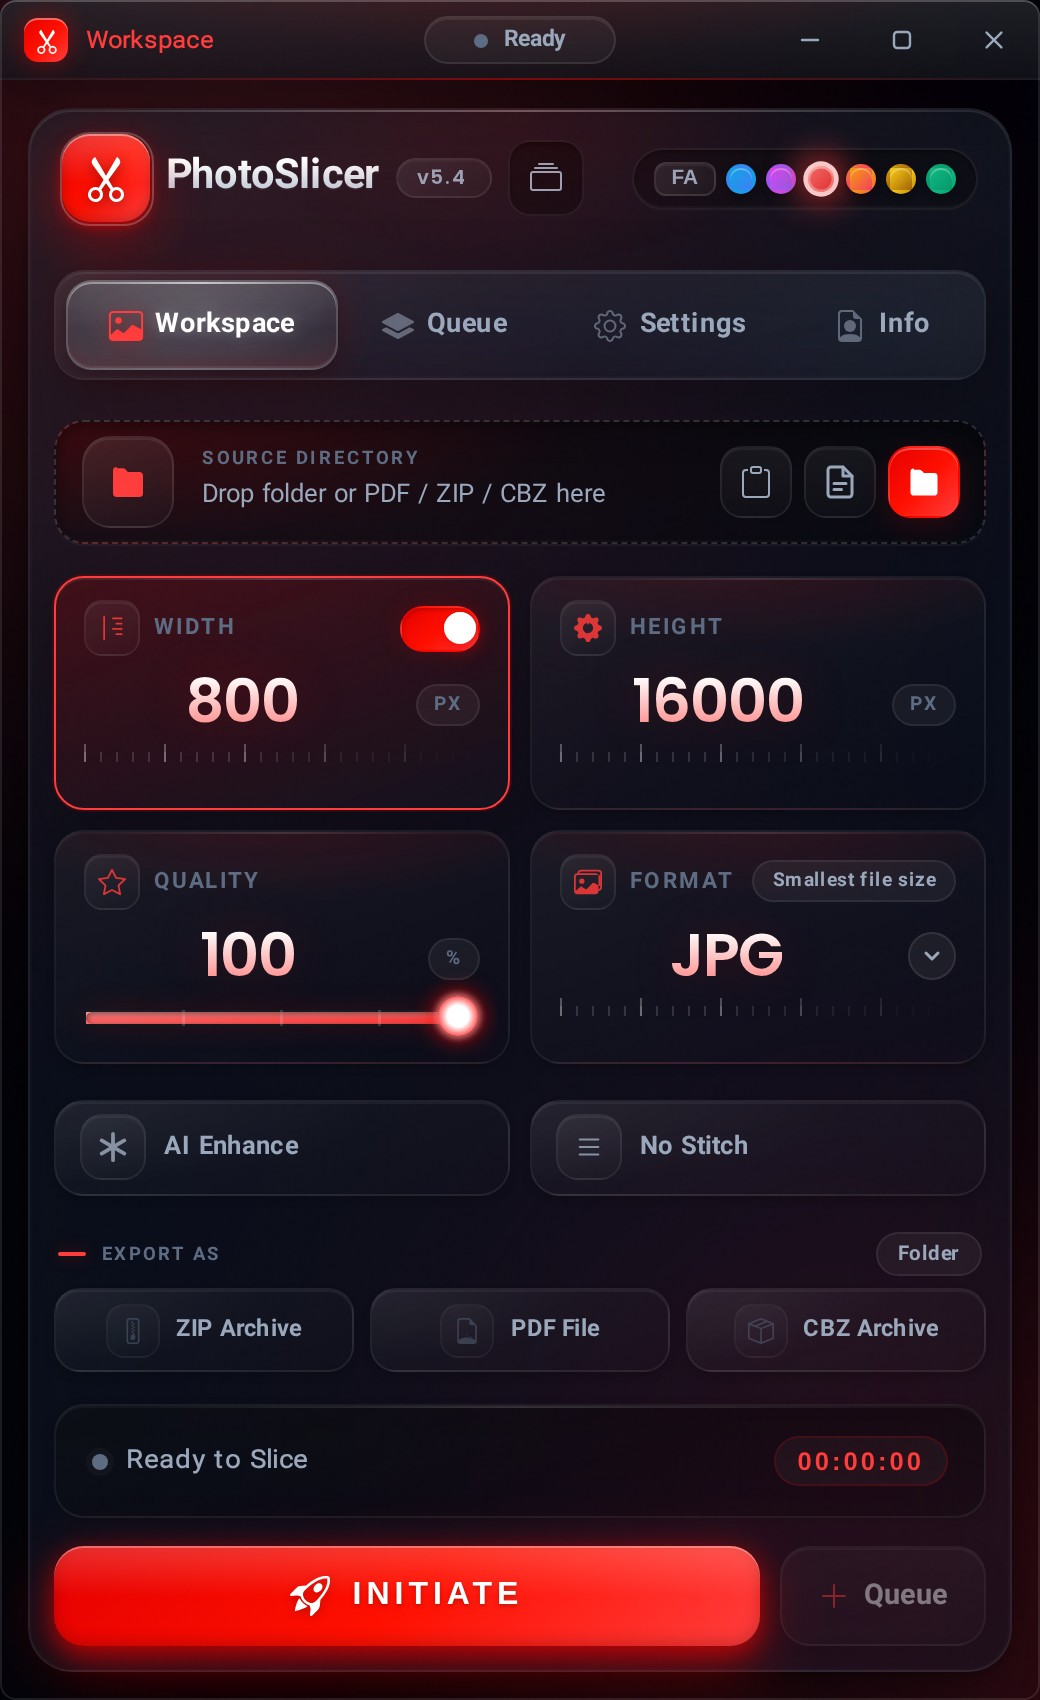
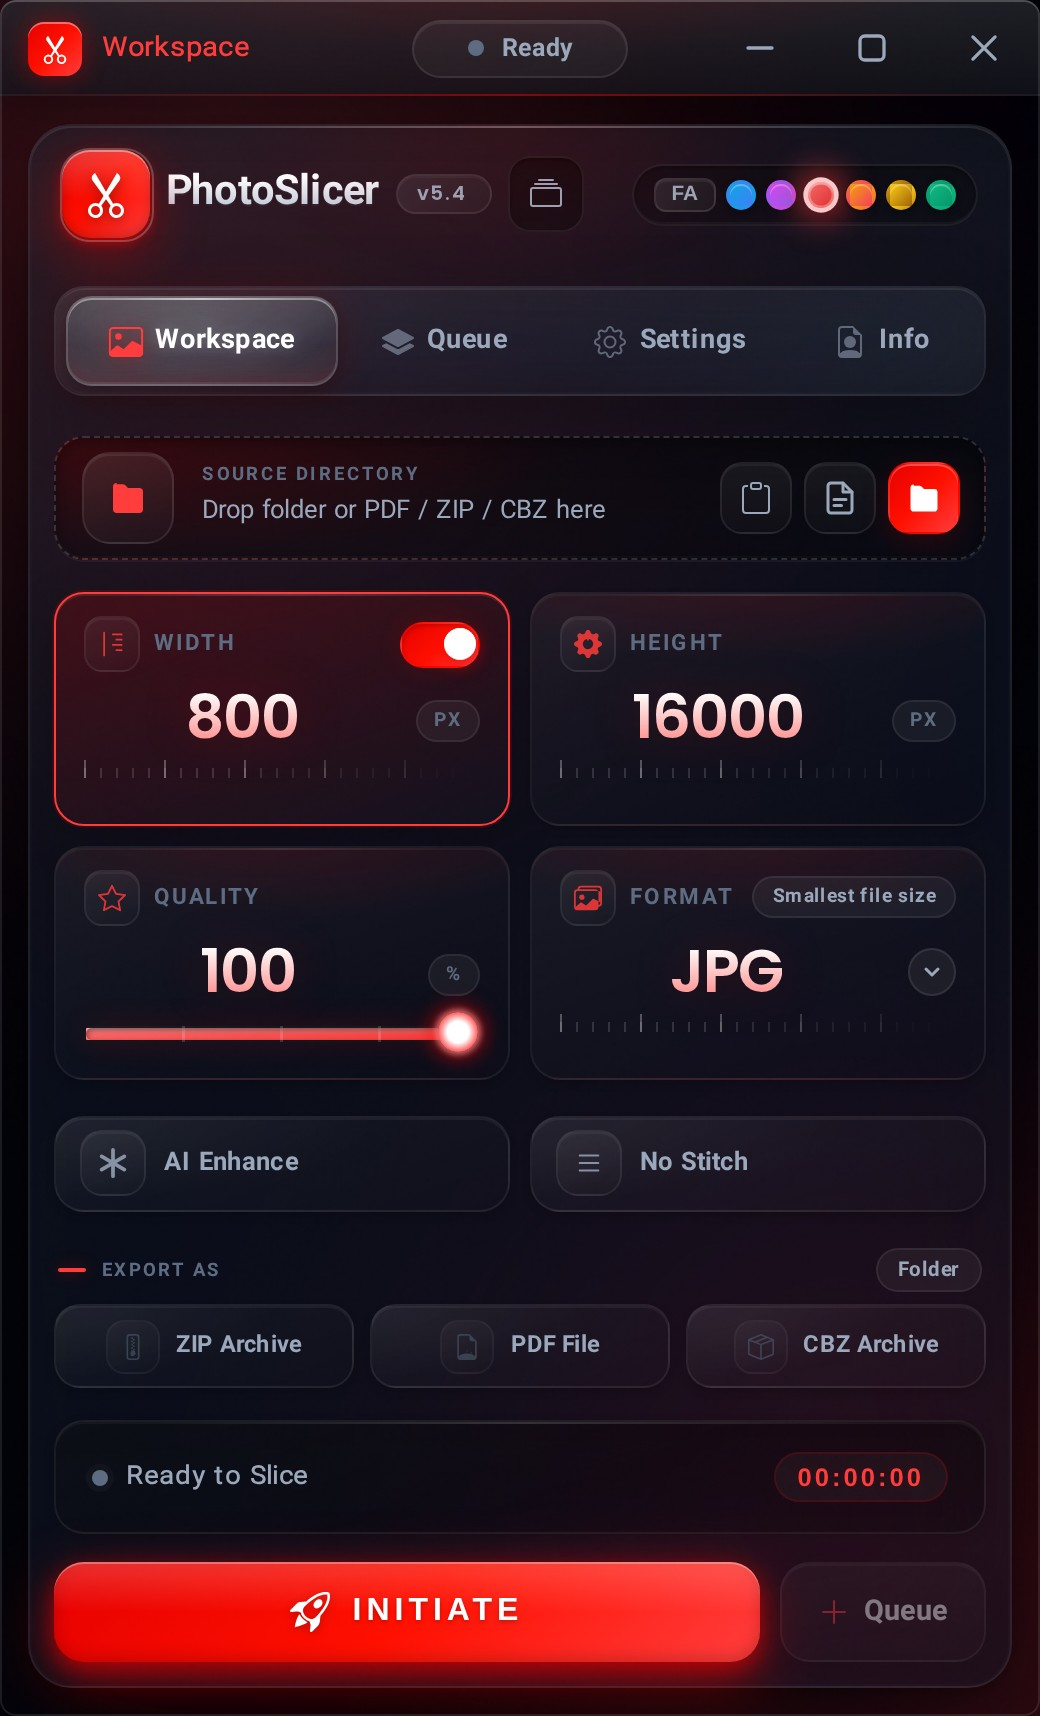
feat(ui): taller title bar with bigger window buttons; fix presets scroll
- The custom title bar is 48px instead of 40px, with its badge, title,
  status pill and window buttons scaled to match. The window's base height
  grows by the same 8px (830 -> 838, min 600 -> 608) so the content area and
  its zoom stay exactly as they were; the layout tests and the README
  screenshot viewport follow.
- The minimise / maximise / close glyphs are 18px (were 14px) with a finer
  stroke so they stay light at the larger size.
- Fix horizontal scrolling in the presets dialog. The format dropdown reused
  the .select-option class the preset rows also use and turned them into a
  narrow grid, pushing the row's save / rename / delete buttons out of the
  list. The base row is a flex row again and the dropdown's grid layout is
  scoped to .format-dropdown.

README screenshots regenerated.

diff --git a/frontend/styles.css b/frontend/styles.css
@@ -5243,20 +5243,38 @@ body.workspace-processing #process .status-area > .activity {
     transform: none;
 }
 
+/* Base row for menus. The preset list reuses this class (see renderPresetMenu),
+   so the format menu's own layout below is scoped to .format-dropdown. */
 .select-option {
-    display: grid;
-    grid-template-columns: 54px minmax(0, 1fr) 14px;
+    display: flex;
     align-items: center;
-    gap: 8px;
+    gap: 10px;
     padding: 9px 10px;
-    border-radius: 10px;
-    color: var(--text-secondary);
+    border-radius: 8px;
     cursor: pointer;
-    transition: background 0.15s ease, color 0.15s ease;
+    color: var(--text-secondary);
+    transition: background var(--transition-fast), color var(--transition-fast);
 }
 
 .select-option:hover {
     background: rgba(255, 255, 255, 0.06);
+    color: #fff;
+}
+
+.select-option[aria-selected="true"] {
+    background: linear-gradient(180deg, var(--theme-glow-soft), rgba(255, 255, 255, 0.02));
+    color: #fff;
+}
+
+.format-dropdown .select-option {
+    display: grid;
+    grid-template-columns: 54px minmax(0, 1fr) 14px;
+    gap: 8px;
+    border-radius: 10px;
+    transition: background 0.15s ease, color 0.15s ease;
+}
+
+.format-dropdown .select-option:hover {
     color: var(--text-primary);
 }
 
@@ -5282,12 +5300,12 @@ body.workspace-processing #process .status-area > .activity {
     opacity: 0;
 }
 
-.select-option[aria-selected="true"] {
+.format-dropdown .select-option[aria-selected="true"] {
     background: linear-gradient(90deg, var(--theme-glow-soft), rgba(255, 255, 255, 0.02));
     color: var(--text-primary);
 }
 
-[dir="rtl"] .select-option[aria-selected="true"] {
+[dir="rtl"] .format-dropdown .select-option[aria-selected="true"] {
     background: linear-gradient(270deg, var(--theme-glow-soft), rgba(255, 255, 255, 0.02));
 }
 
@@ -6952,7 +6970,7 @@ body[data-tab="queue"] .container {
    region (Windows 10, see window_shape_windows.go). --window-radius must match
    windowCornerRadius in window_shape.go. */
 :root {
-    --titlebar-h: 40px;
+    --titlebar-h: 48px;
     --window-radius: 8px;
 }
 
@@ -7034,23 +7052,28 @@ body {
 .titlebar-start {
     display: flex;
     align-items: center;
-    gap: 9px;
+    gap: 10px;
     min-width: 0;
-    padding-inline: 12px 8px;
+    padding-inline: 14px 8px;
 }
 
 .titlebar-badge {
     flex: 0 0 auto;
-    width: 22px;
-    height: 22px;
+    width: 27px;
+    height: 27px;
     display: grid;
     place-items: center;
-    border-radius: 7px;
+    border-radius: 8px;
     background: var(--theme-gradient);
     color: var(--on-theme-text, #fff);
     box-shadow:
         inset 0 1px 0 rgba(255, 255, 255, 0.4),
         0 0 12px var(--theme-glow);
+}
+
+.titlebar-badge svg {
+    width: 15px;
+    height: 15px;
 }
 
 .titlebar-title {
@@ -7059,7 +7082,7 @@ body {
     overflow: hidden;
     text-overflow: ellipsis;
     white-space: nowrap;
-    font-size: 0.82rem;
+    font-size: 0.92rem;
     font-weight: 700;
     letter-spacing: 0.3px;
     color: var(--text-primary);
@@ -7068,7 +7091,7 @@ body {
 .titlebar-sep {
     flex: 0 0 auto;
     color: var(--text-tertiary);
-    font-size: 0.8rem;
+    font-size: 0.9rem;
 }
 
 .titlebar-section {
@@ -7077,7 +7100,7 @@ body {
     overflow: hidden;
     text-overflow: ellipsis;
     white-space: nowrap;
-    font-size: 0.76rem;
+    font-size: 0.86rem;
     font-weight: 500;
     color: var(--theme-solid);
 }
@@ -7110,17 +7133,17 @@ body {
     position: relative;
     display: inline-flex;
     align-items: center;
-    gap: 8px;
-    height: 24px;
-    min-width: 96px;
-    padding: 0 13px;
+    gap: 9px;
+    height: 29px;
+    min-width: 108px;
+    padding: 0 15px;
     justify-content: center;
     overflow: hidden;
     border-radius: 999px;
     border: 1px solid rgba(255, 255, 255, 0.09);
     background: rgba(255, 255, 255, 0.045);
     color: var(--text-secondary);
-    font-size: 0.72rem;
+    font-size: 0.78rem;
     font-weight: 600;
     white-space: nowrap;
     box-shadow: inset 0 1px 0 rgba(255, 255, 255, 0.07);
@@ -7150,8 +7173,8 @@ body {
 
 .status-dot {
     flex: 0 0 auto;
-    width: 7px;
-    height: 7px;
+    width: 8px;
+    height: 8px;
     border-radius: 50%;
     background: var(--accent);
     transition: background 0.3s ease, box-shadow 0.3s ease;
@@ -7223,7 +7246,7 @@ body {
 /* Windows 11 style: full-height buttons flush with the window edge */
 .win-btn {
     --wails-draggable: no-drag;
-    width: 46px;
+    width: 56px;
     height: 100%;
     display: grid;
     place-items: center;
@@ -7240,6 +7263,9 @@ body {
 }
 
 .win-btn svg {
+    width: 18px;
+    height: 18px;
+    stroke-width: 1.1; /* the glyphs are drawn on a 12-unit grid: keep the line fine at this size */
     transition: transform 0.5s cubic-bezier(0.34, 1.56, 0.64, 1);
 }
 
@@ -7251,7 +7277,7 @@ body {
 }
 
 /* Each glyph reacts in its own way */
-.win-min:hover svg { transform: translateY(2.5px); }
+.win-min:hover svg { transform: translateY(3px); }
 .win-max:hover svg { transform: scale(1.22); }
 .win-close:hover svg { transform: rotate(90deg) scale(1.15); }
 .win-btn:active svg { transform: scale(0.88); }

diff --git a/frontend/script.js b/frontend/script.js
@@ -3853,7 +3853,7 @@ function resetCustomTheme() {
 
 const DESIGN_WIDTH = 520;
 const DESIGN_HEIGHT = 810;
-const DESIGN_TITLEBAR = 40; // keep in step with --titlebar-h in styles.css
+const DESIGN_TITLEBAR = 48; // keep in step with --titlebar-h in styles.css
 
 function handleResize() {
     const widthRatio = window.innerWidth / DESIGN_WIDTH;

diff --git a/window_layout_test.go b/window_layout_test.go
@@ -18,12 +18,12 @@ func TestWindowLayoutScalesWithScreenHeight(t *testing.T) {
 		w, h          int
 		width, height int
 	}{
-		{"1366x768 laptop", 1366, 768, 363, 590},
-		{"1600x900", 1600, 900, 425, 692},
-		{"1080p at 150% scaling", 1280, 720, 340, 553},
-		{"1440p", 2560, 1440, 680, 1107},
-		{"4K at 100%", 3840, 2160, 1020, 1660},
-		{"ultrawide 1440p", 3440, 1440, 680, 1107},
+		{"1366x768 laptop", 1366, 768, 363, 596},
+		{"1600x900", 1600, 900, 425, 698},
+		{"1080p at 150% scaling", 1280, 720, 340, 559},
+		{"1440p", 2560, 1440, 680, 1117},
+		{"4K at 100%", 3840, 2160, 1020, 1676},
+		{"ultrawide 1440p", 3440, 1440, 680, 1117},
 	}
 	for _, c := range cases {
 		got := windowLayoutFor(c.w, c.h)

diff --git a/window_layout.go b/window_layout.go
@@ -15,7 +15,9 @@ type windowLayout struct {
 
 // baseWindowLayout is what the app is designed around and what it opens with
 // on a 1080-pixel-high screen. Every other screen gets this layout scaled.
-var baseWindowLayout = windowLayout{Width: 510, Height: 830, MinWidth: 420, MinHeight: 600}
+// The height is the content's 810 px plus the 48 px custom title bar (see
+// DESIGN_HEIGHT and DESIGN_TITLEBAR in script.js), scaled like the width.
+var baseWindowLayout = windowLayout{Width: 510, Height: 838, MinWidth: 420, MinHeight: 608}
 
 const (
 	// referenceScreenHeight is the logical screen height at which the window
